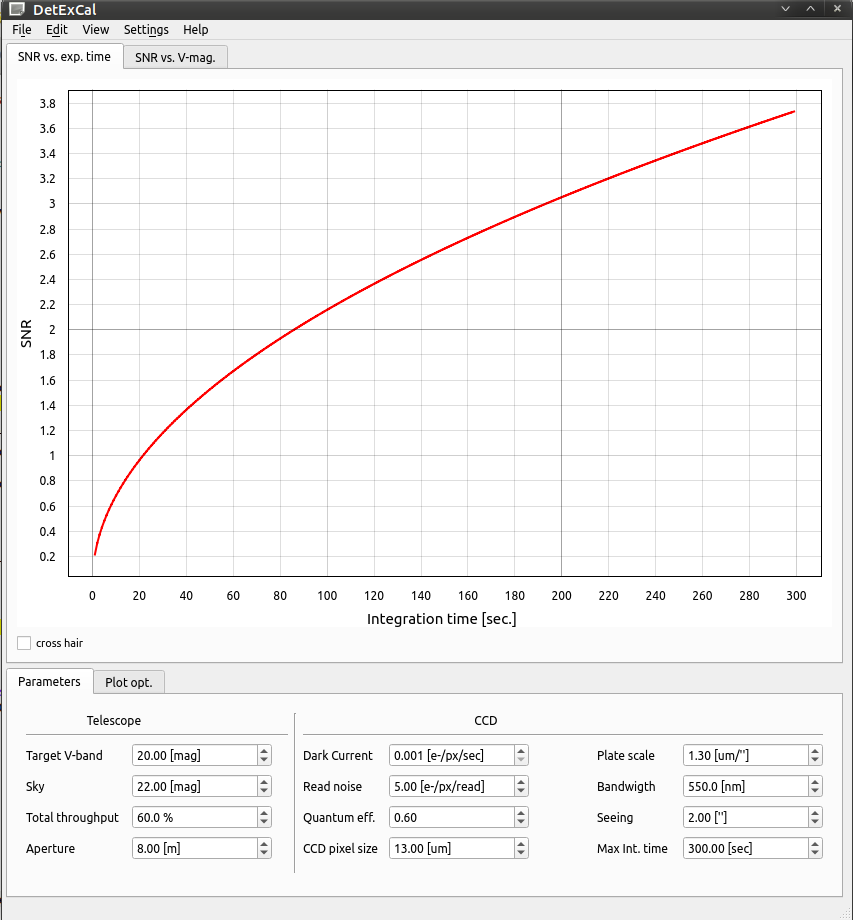
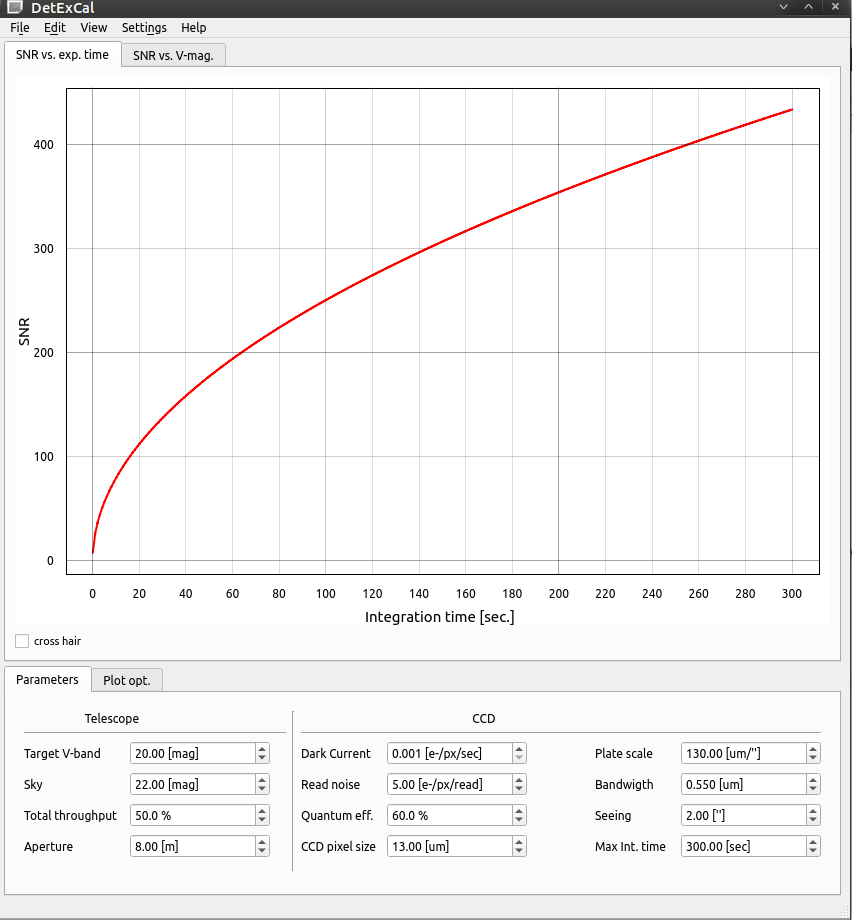
some heavy fixes

diff --git a/DetExCal/gui.py b/DetExCal/gui.py
@@ -128,6 +128,8 @@ class DetExCal(QtWidgets.QMainWindow, Ui_MainWindow):
         for i in range(len(zzz)):
 
             zzz[i].setAxisItems({'bottom': pg_hack.CustomAxisItem('bottom')})
+            zzz[i].setAxisItems({'left': pg_hack.CustomAxisItem('left')})
+
             #zzz[i].getAxis("bottom").tickFont = self.plot_font
             zzz[i].getAxis("bottom").setStyle(tickTextOffset = 12, tickFont = self.plot_font)
             zzz[i].getAxis("top").setStyle(tickTextOffset = 12, tickFont = self.plot_font)
@@ -346,7 +348,8 @@ will be highly appreciated!
                 plot_wg.removeItem(kk)
                 
     def mag2flux(self,magnitude):
-        return 9.6e10*(10**(-magnitude/2.5))
+        return 9.6e10*(10**(-magnitude/2.5))  # phot. /(um m^2 sec)
+        #return 10**((-magnitude)/2.5)
 
     def flux2mag(self,flux):
         return -2.5*np.log10(flux/9.6e10)
@@ -365,18 +368,23 @@ will be highly appreciated!
 
         #p1.addLine(x=None, y=0,   pen=pg.mkPen('#ff9933', width=0.8))
         time       = np.arange(1,self.Max_int_time.value(),1)
-        magnitudes = np.arange(0,self.V_band.value()+0.1,0.1)
+        #magnitudes = np.arange(0,self.V_band.value()+0.1,0.1)
+        time       = np.linspace(0.1,self.Max_int_time.value(),300)
+        magnitudes = np.linspace(-3,self.V_band.value()+0.1,300)
+ 
 
+
+        radius = (self.seeing.value()*(self.plate_scale.value() / self.CCD_px.value()))/2.0 # [pix/"] 
         flux = self.mag2flux(self.V_band.value()) #airmass?
-        bgr  = self.mag2flux(self.Sky.value() -2.5*np.log10((self.CCD_px.value()/self.plate_scale.value())**2))  
-     
-        npix = np.pi* (self.seeing.value()* self.plate_scale.value() / self.CCD_px.value() ) **2
-        dark_current = self.mag2flux(self.Dark_current.value())
+        bgr  = self.mag2flux(self.Sky.value()) #-2.5*np.log10((self.CCD_px.value()/self.plate_scale.value())**2)
 
-        signal  = flux*(np.pi*self.Aperture.value()**2)*(self.Throughput.value()/100.0)*(self.Bandwidth.value()/1000.0)*(self.Quant_eff.value()/100.0)
-        bg_noise = bgr*(np.pi*self.Aperture.value()**2)*(self.Throughput.value()/100.0)*(self.Bandwidth.value()/1000.0)*(self.Quant_eff.value()/100.0)
-        Idc       = dark_current*self.seeing.value()* self.plate_scale.value()
-        readnoise = self.Read_noise.value()*self.seeing.value()* self.plate_scale.value()
+        npix = np.pi* (radius**2)
+
+        signal   = flux*(np.pi*self.Aperture.value()**2)*(self.Throughput.value()/100.0)*(self.Bandwidth.value())*(self.Quant_eff.value()/100.0)
+        bg_noise = bgr*(np.pi*self.Aperture.value()**2)*(self.Throughput.value()/100.0)*(self.Bandwidth.value())*(self.Quant_eff.value()/100.0)  
+        Idc       = self.Dark_current.value() #*self.seeing.value()* self.plate_scale.value()
+        readnoise = self.Read_noise.value() 
+ 
 
         snr_vs_time = self.ccd_SNR_vs_time(signal=signal,bgnd=bg_noise, Idc =Idc, time=time, readnoise=readnoise, npix=npix)
 
@@ -386,16 +394,17 @@ will be highly appreciated!
         
         model_curve.setZValue(self.RV_model_z.value()) 
 
-        snr_vs_mag = self.ccd_SNR_vs_mag(signal=signal,bgnd=bg_noise, Idc =Idc, time=self.Max_int_time.value(), readnoise=readnoise, npix=npix,mag=magnitudes)
-
+        snr_vs_mag = np.array(self.ccd_SNR_vs_mag(signal=signal,bgnd=bg_noise, Idc =Idc, time=self.Max_int_time.value(), readnoise=readnoise, npix=npix,mag=magnitudes))
+    
         model_curve_mag = p2.plot(magnitudes,snr_vs_mag, 
         pen={'color': colors[-1], 'width': self.rv_model_width.value()},enableAutoRange=True, #symbolPen={'color': 0.5, 'width': 0.1}, symbolSize=1,symbol='o',
         viewRect=True, labels =  {'left':'RV', 'bottom':'JD'}) 
         
         model_curve_mag.setZValue(self.RV_model_z.value()) 
- 
+
         p2.getViewBox().invertX(True)
-        p2.setYRange(0, snr_vs_mag[int((self.V_band.value() - self.V_band.value()-3)*10)], padding=0.01)
+        sub_snr = snr_vs_mag[np.where(magnitudes > self.V_band.value()-3)]
+        p2.setYRange(0, max(sub_snr) , padding=0.01)
         p2.setXRange(self.V_band.value()-3, self.V_band.value(), padding=0.01) 
 
         if self.SNR_plot_autorange.isChecked():
@@ -418,8 +427,9 @@ will be highly appreciated!
  
         try:        
             for i in range(len(time)):
-                CtG = signal*gain*time[i]
-                snr.append(CtG/(np.sqrt( (signal+bgnd*npix+Idc*npix)*time[i]+(readnoise**2)*npix )))                
+               # CtG = signal*gain*time[i]
+                #snr.append(CtG/(np.sqrt( (signal+bgnd*npix+Idc*npix)*time[i]+(readnoise**2)*npix )))   
+                snr.append((signal*time[i]) / (np.sqrt( signal*time[i] + (bgnd*npix)*time[i] + (Idc*npix)*time[i] + (readnoise**2)*npix )))   
         except RuntimeWarning:
             print("Error: cannot handle time = 0. Try again.")
         return np.array(snr)
@@ -435,7 +445,7 @@ will be highly appreciated!
         try:        
             for i in range(len(mag)):
                 flux = self.mag2flux(mag[i]) #airmass?
-                signal  = flux*(np.pi*self.Aperture.value()**2)*(self.Throughput.value()/100.0)*(self.Bandwidth.value()/1000.0)*(self.Quant_eff.value()/100.0)
+                signal  = flux*(np.pi*self.Aperture.value()**2)*(self.Throughput.value()/100.0)*(self.Bandwidth.value())*(self.Quant_eff.value()/100.0)
                 CtG = signal*gain*time
                 snr.append(CtG/(np.sqrt( (signal+bgnd*npix+Idc*npix)*time+(readnoise**2)*npix )))                
         except RuntimeWarning:

diff --git a/DetExCal/lib/DetExCal.py b/DetExCal/lib/DetExCal.py
@@ -213,8 +213,9 @@ class Ui_MainWindow(object):
         self.plate_scale = QtWidgets.QDoubleSpinBox(self.widget)
         self.plate_scale.setMinimumSize(QtCore.QSize(140, 24))
         self.plate_scale.setMinimum(0.1)
+        self.plate_scale.setMaximum(1000.0)
         self.plate_scale.setSingleStep(0.1)
-        self.plate_scale.setProperty("value", 1.3)
+        self.plate_scale.setProperty("value", 130.0)
         self.plate_scale.setObjectName("plate_scale")
         self.gridLayout_7.addWidget(self.plate_scale, 2, 8, 1, 1)
         self.CCD_px = QtWidgets.QDoubleSpinBox(self.widget)
@@ -296,11 +297,11 @@ class Ui_MainWindow(object):
         self.gridLayout_7.addWidget(self.label_16, 4, 0, 1, 1)
         self.Bandwidth = QtWidgets.QDoubleSpinBox(self.widget)
         self.Bandwidth.setMinimumSize(QtCore.QSize(140, 24))
-        self.Bandwidth.setDecimals(1)
-        self.Bandwidth.setMinimum(10.0)
-        self.Bandwidth.setMaximum(1000.0)
-        self.Bandwidth.setSingleStep(10.0)
-        self.Bandwidth.setProperty("value", 550.0)
+        self.Bandwidth.setDecimals(3)
+        self.Bandwidth.setMinimum(0.1)
+        self.Bandwidth.setMaximum(10.0)
+        self.Bandwidth.setSingleStep(0.1)
+        self.Bandwidth.setProperty("value", 0.55)
         self.Bandwidth.setObjectName("Bandwidth")
         self.gridLayout_7.addWidget(self.Bandwidth, 3, 8, 1, 1)
         self.Aperture = QtWidgets.QDoubleSpinBox(self.widget)
@@ -777,7 +778,7 @@ class Ui_MainWindow(object):
         self.V_band.setSuffix(_translate("MainWindow", " [mag]"))
         self.label_9.setText(_translate("MainWindow", "Bandwigth"))
         self.label_16.setText(_translate("MainWindow", "Total throughput"))
-        self.Bandwidth.setSuffix(_translate("MainWindow", " [nm]"))
+        self.Bandwidth.setSuffix(_translate("MainWindow", " [um]"))
         self.Aperture.setSuffix(_translate("MainWindow", " [m]"))
         self.label_11.setText(_translate("MainWindow", "Quantum eff."))
         self.Sky.setSuffix(_translate("MainWindow", " [mag]"))
